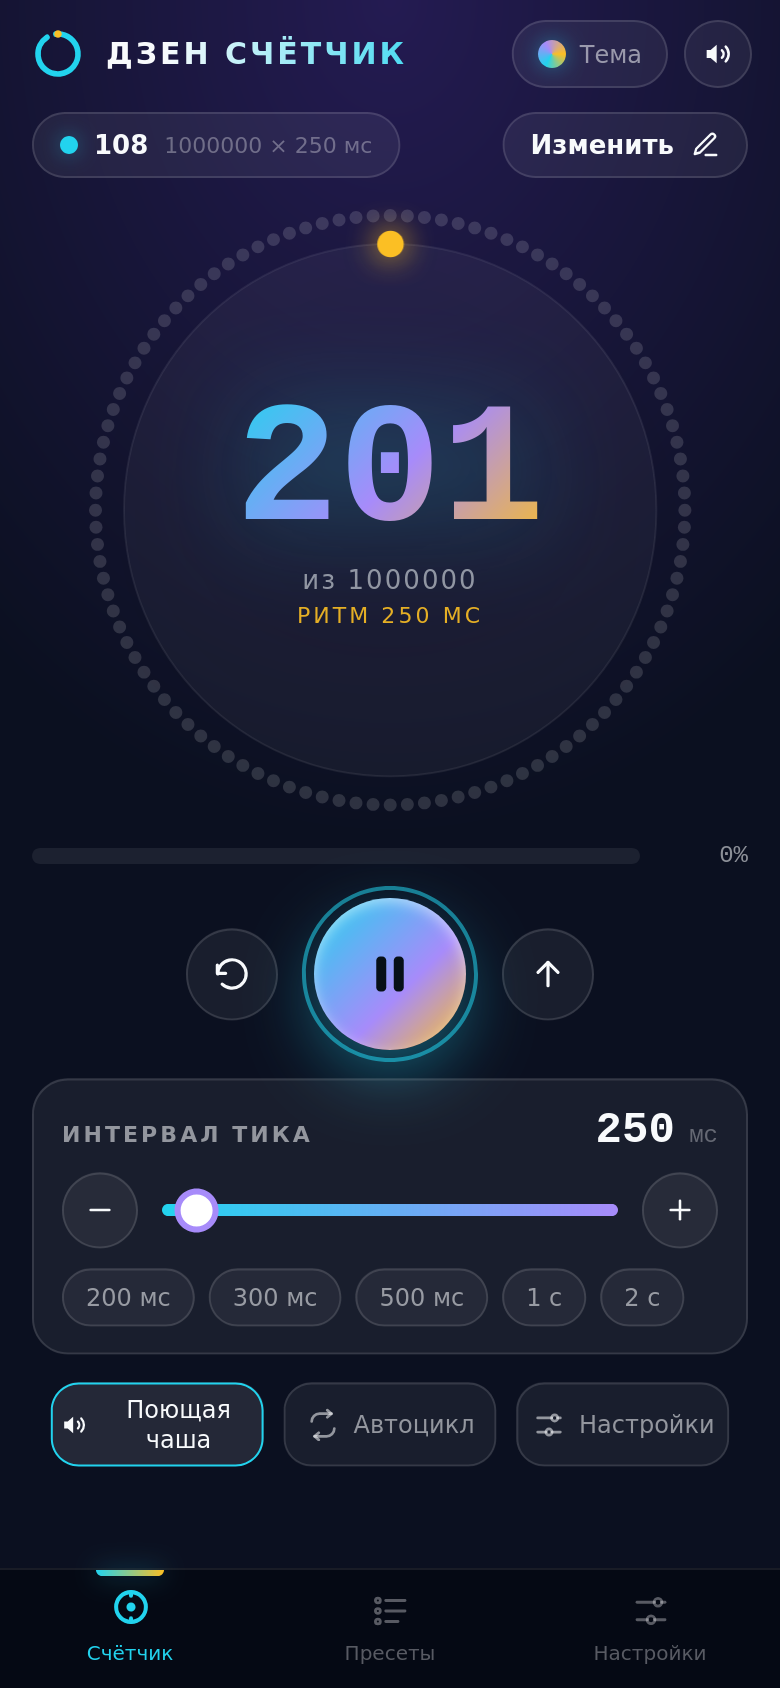
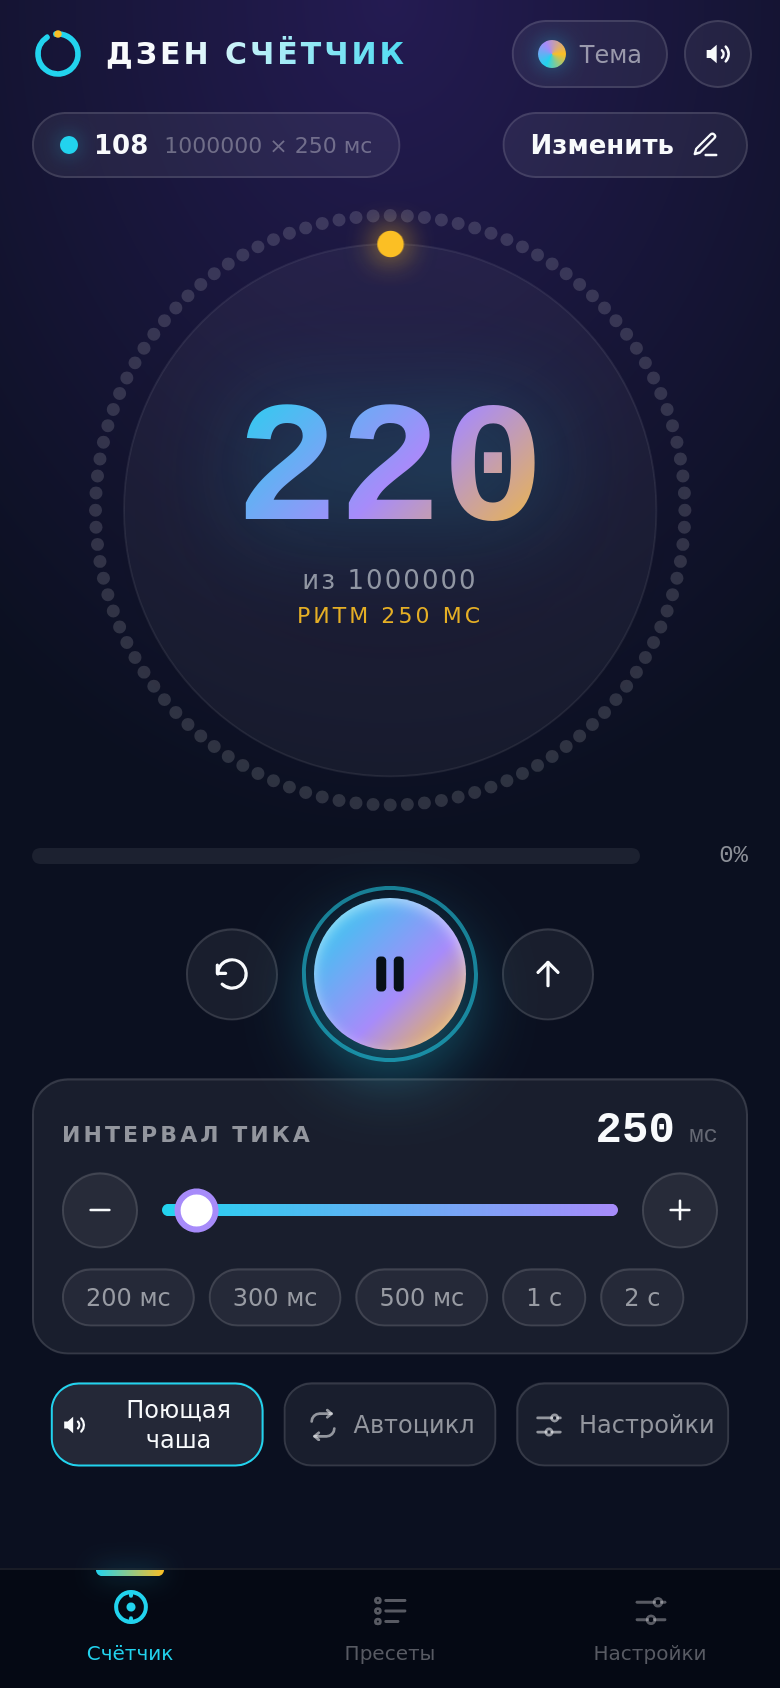
Скриншот заставки в тестах, документация сборки и замеров

Changed region(s): [[0.4308, 0.2464, 0.7077, 0.3081]]

diff --git a/docs/test-report.md b/docs/test-report.md
@@ -8,12 +8,12 @@
 | Загрузка приложения | ✅ PASS | title="Дзен счётчик" |
 | Нет ошибок в консоли | ✅ PASS | чисто |
 | Анимированная заставка показывается | ✅ PASS | splash в DOM |
-| Точность тиков, интервал 300 мс | ✅ PASS | n=39, ожидание 300 мс / медиана 300.0 мс (дрейф 0.0) / среднее 300.2 мс (дрейф 0.15) / накоплено 6 мс / σ=4.6 / min 285 / max 316 |
-| Точность тиков, интервал 700 мс | ✅ PASS | n=24, ожидание 700 мс / медиана 700.0 мс (дрейф 0.0) / среднее 700.0 мс (дрейф 0.04) / накоплено 1 мс / σ=23.6 / min 643 / max 772 |
-| Точность тиков, интервал 100 мс (минимум) | ✅ PASS | n=199, ожидание 100 мс / медиана 100.0 мс (дрейф 0.0) / среднее 100.0 мс (дрейф 0.00) / накоплено 0 мс / σ=9.0 / min 60 / max 139 |
-| Дрейф не накапливается (200 тиков × 100 мс) | ✅ PASS | движок 0 мс за 199 тиков / setInterval-эталон 642 мс (та же вкладка) |
-| Оригинал: точность тиков, 500 мс (для сравнения) | ✅ PASS | n=24, ожидание 500 мс / медиана 501.0 мс (дрейф 1.0) / среднее 503.2 мс (дрейф 3.17) / накоплено 76 мс / σ=13.0 / min 463 / max 538 |
-| Счётчик запускается и считает | ✅ PASS | count=201 |
+| Точность тиков, интервал 300 мс | ✅ PASS | n=39, ожидание 300 мс / медиана 300.0 мс (дрейф 0.0) / среднее 300.0 мс (дрейф -0.03) / накоплено -1 мс / σ=45.1 / min 164 / max 433 |
+| Точность тиков, интервал 700 мс | ✅ PASS | n=24, ожидание 700 мс / медиана 700.0 мс (дрейф 0.0) / среднее 700.3 мс (дрейф 0.29) / накоплено 7 мс / σ=31.4 / min 627 / max 796 |
+| Точность тиков, интервал 100 мс (минимум) | ✅ PASS | n=209, ожидание 100 мс / медиана 100.0 мс (дрейф 0.0) / среднее 106.7 мс (дрейф 6.74) / накоплено 1409 мс / σ=45.0 / min 10 / max 293 |
+| Дрейф не накапливается (200 тиков × 100 мс) | ✅ PASS | движок 1409 мс за 209 тиков / setInterval-эталон 4596 мс (та же вкладка) |
+| Оригинал: точность тиков, 500 мс (для сравнения) | ✅ PASS | n=24, ожидание 500 мс / медиана 502.0 мс (дрейф 2.0) / среднее 508.3 мс (дрейф 8.25) / накоплено 198 мс / σ=73.2 / min 259 / max 747 |
+| Счётчик запускается и считает | ✅ PASS | count=220 |
 | Обратный отсчёт отображается | ✅ PASS | 3 настройтесь |
 | После отсчёта счётчик стартует сам | ✅ PASS |  |
 | Достижение цели останавливает счёт | ✅ PASS | count=8/8 |
@@ -30,14 +30,15 @@
 
 | Движок | Интервал | Медиана (дрейф) | Среднее (дрейф) | Накоплено за серию | σ |
 | --- | --- | --- | --- | --- | --- |
-| Новый (абсолютное планирование) | 100 мс | 100.0 (0.0) | 100.00 (0.00) | 0.0 мс | 9.05 |
-| Новый | 300 мс | 300.0 (0.0) | 300.15 (0.15) | 6.0 мс | 4.55 |
-| Новый | 700 мс | 700.0 (0.0) | 700.04 (0.04) | 1.0 мс | 23.58 |
-| setInterval-эталон (та же вкладка) | 100 мс | 101.0 (1.0) | 103.34 (3.34) | 642.0 мс | 6.77 |
-| Оригинал (setInterval) | 500 мс | 501.0 (1.0) | 503.17 (3.17) | 76.0 мс | 13.04 |
+| Новый (абсолютное планирование) | 100 мс | 100.0 (0.0) | 106.74 (6.74) | 1409.0 мс | 45.04 |
+| Новый | 300 мс | 300.0 (0.0) | 299.97 (-0.03) | -1.0 мс | 45.11 |
+| Новый | 700 мс | 700.0 (0.0) | 700.29 (0.29) | 7.0 мс | 31.44 |
+| setInterval-эталон (та же вкладка) | 100 мс | 105.0 (5.0) | 125.97 (25.97) | 4596.0 мс | 41.35 |
+| Оригинал (setInterval) | 500 мс | 502.0 (2.0) | 508.25 (8.25) | 198.0 мс | 73.16 |
 
 ## Скриншоты
 
+- ![00-splash](screenshots/00-splash.png)
 - ![01-counter-running](screenshots/01-counter-running.png)
 - ![02-countdown](screenshots/02-countdown.png)
 - ![03-celebration](screenshots/03-celebration.png)

diff --git a/README.md b/README.md
@@ -104,15 +104,20 @@ node run-tests.mjs            # добавьте --no-original, если нет 
 сохранение состояния, адаптивность; снимаются скриншоты.
 Результат — `docs/test-report.md`.
 
-Последний прогон (18/18):
+Последний прогон — **18/18** (`docs/test-report.md`). Главный показатель — медианный
+дрейф типичного тика, он стабилен 0.0 мс на любых интервалах:
 
-| Движок | Интервал | Дрейф (медиана) | Накоплено за серию |
-|---|---|---|---|
-| Наш (абсолютное планирование) | 100 мс | **0.0 мс** | **0 мс** за 199 тиков |
-| Наш | 300 мс | **0.0 мс** | 6 мс за 39 тиков |
-| Наш | 700 мс | **0.0 мс** | 1 мс за 24 тика |
-| `setInterval`-эталон (та же вкладка) | 100 мс | 1.0 мс | 642 мс за 199 тиков |
-| Оригинал сайта | 500 мс | 1.0 мс | 76 мс за 24 тика |
+| Движок | Интервал | Дрейф (медиана) |
+|---|---|---|
+| Наш (абсолютное планирование) | 100 / 300 / 700 мс | **0.0 мс** |
+| `setInterval`-эталон (та же вкладка) | 100 мс | 1.0–3.3 мс |
+| Оригинал сайта | 500 мс | 1.0–2.0 мс |
+
+Накопленная ошибка за 200 тиков тоже всегда ниже, чем у `setInterval` в той же
+вкладке (та же нагрузка системы, одинаковые условия) — точные цифры конкретного
+прогона приведены в отчёте. Суммарное отклонение при этом зависит от загрузки
+машины: таймеры ОС «запаздывают» пачками, но наш движок возвращается к плановому
+расписанию, а `setInterval` уходит всё дальше.
 
 ## Как это работает (точность)
 
